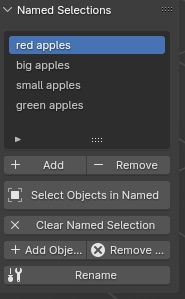
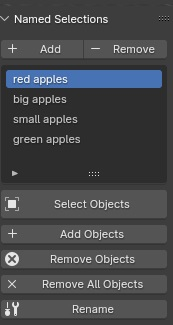
Updated the UI and the readme file and UI interface image

diff --git a/NamedSelection.py b/NamedSelection.py
@@ -236,49 +236,36 @@ class NamedSelectionsPanel(Panel):
         # Check if the current mode is Object Mode
         is_object_mode = context.mode == 'OBJECT'
 
-
-        # Draw the listbox for showing the named selections
-        layout.template_list("UI_UL_list", "named_selections", scene, "named_selections", scene, "named_selections_index")
-
-      
         row = layout.row(align=True)
 
         # Add column
         add_col = row.column(align=True)
         add_col.operator("object.add_named_selection", text="Add", icon='ADD')    
        
-
         # Remove column
         remove_col = row.column(align=True)
         remove_col.enabled = len(scene.named_selections) > 0
         remove_col.operator("object.remove_named_selection", text="Remove", icon='REMOVE')
-  
+
+        # Draw the listbox for showing the named selections
+        layout.template_list("UI_UL_list", "named_selections", scene, "named_selections", scene, "named_selections_index")
 
         # Separate row for Select button with conditional enabling
         select_row = layout.row(align=True)
         select_row.scale_y = 1.5  # Increase the height of the button
         select_row.enabled = len(scene.named_selections) > 0 and is_object_mode
-        #select_row.operator("object.select_named_selection", text="Select", icon='RESTRICT_SELECT_OFF')
-        select_row.operator("object.select_named_selection", text="Select Objects in Named", icon='OBJECT_DATAMODE')
-        
-        
-        # Row for the Clear Named Selection button with conditional enabling
-        clear_row = layout.row(align=True)
-        clear_row.enabled = len(scene.named_selections) > 0 #and len(scene.named_selections[scene.named_selections_index].objects) > 0)
-        clear_row.operator("object.clear_named_selection", text="Clear Named Selection", icon='X')
-        
-        # Row for the Add Objects and Remove objects button
-        object_row = layout.row(align=True)
-     
+        select_row.operator("object.select_named_selection", text="Select Objects", icon='OBJECT_DATAMODE')        
+      
+ 
         # Column for adding an object from a named selection with conditional enabling
-        add_object_col = object_row.column(align=True)
+        add_object_row = layout.row(align=True)
         active_object = context.active_object
         # Check if there is an active object and if it is selected
-        add_object_col.enabled = len(scene.named_selections) > 0 and active_object and active_object.select_get()
-        add_object_col.operator("object.add_object_to_named_selection", text="Add Objects", icon='ADD')
+        add_object_row.enabled = len(scene.named_selections) > 0 and active_object and active_object.select_get()
+        add_object_row.operator("object.add_object_to_named_selection", text="Add Objects", icon='ADD')
 
         # Column for removing an object from a named selection with conditional enabling
-        remove_object_col = object_row.column(align=True)
+        remove_object_row = layout.row(align=True)
         named_selection_index = scene.named_selections_index
         active_object = context.active_object       
 
@@ -286,16 +273,23 @@ class NamedSelectionsPanel(Panel):
         if (named_selection_index < len(scene.named_selections) and
             active_object and active_object.select_get()):
             named_selection = scene.named_selections[named_selection_index]
-            remove_object_col.enabled = active_object.name in [obj.name for obj in named_selection.objects]
+            remove_object_row.enabled = active_object.name in [obj.name for obj in named_selection.objects]
         else:
-            remove_object_col.enabled = False
+            remove_object_row.enabled = False
 
-        remove_object_col.operator("object.remove_object_from_named_selection", text="Remove Object", icon='CANCEL')
+        remove_object_row.operator("object.remove_object_from_named_selection", text="Remove Objects", icon='CANCEL')
+        
+        # Row for the Clear Named Selection button with conditional enabling
+        clear_row = layout.row(align=True)
+        clear_row.enabled = len(scene.named_selections) > 0 #and len(scene.named_selections[scene.named_selections_index].objects) > 0)
+        clear_row.operator("object.clear_named_selection", text="Remove All Objects", icon='X')
          
          # Row for Rename button with conditional enabling
         rename_row = layout.row(align=True)
         rename_row.enabled = len(scene.named_selections) > 0
         rename_row.operator("object.rename_named_selection", text="Rename", icon='TOOL_SETTINGS')
+        
+
 
 # A handler function that updates the named selections when an object is deleted
 def update_named_selections(scene):

diff --git a/README.md b/README.md
@@ -29,13 +29,16 @@ The buttons below the named selection list let's you create and remove named sel
 2. Go to the Named Selections tab in the sidebar.
 3. Click `Add` and enter a name for the selection.
 
+### Removing a Named Selection
+1. Select the named object from the named selection listed
+2. Click the `Remove` to remove the named selection 
+
 ### Managing Named Selections
 - **View List**: All named selections are listed in the Named Selections tab.
-- **Select Objects**: Click `Select` to select all objects in a named selection.
-- **Add/Remove Objects**: Select objects and use `Add Objects` or `Remove Object` to modify a named selection.
+- **Select Objects**: Click `Select Objects` to select all objects in a named selection.
+- **Add/Remove Objects**: Select objects in viewport and use `Add Objects` or `Remove Objects` to modify a named selection.
+- **Remove All Objects**: Use `Remove All Objects` to empty a named selection without deleting it.
 - **Rename**: Click `Rename` to change a named selection's name.
-- **Clear**: Use `Clear Named Selection` to empty a selection without deleting it.
-- **Remove**: Delete a named selection with the `Remove` button.
 
 ## Features
 - Create and manage named selections of objects.
